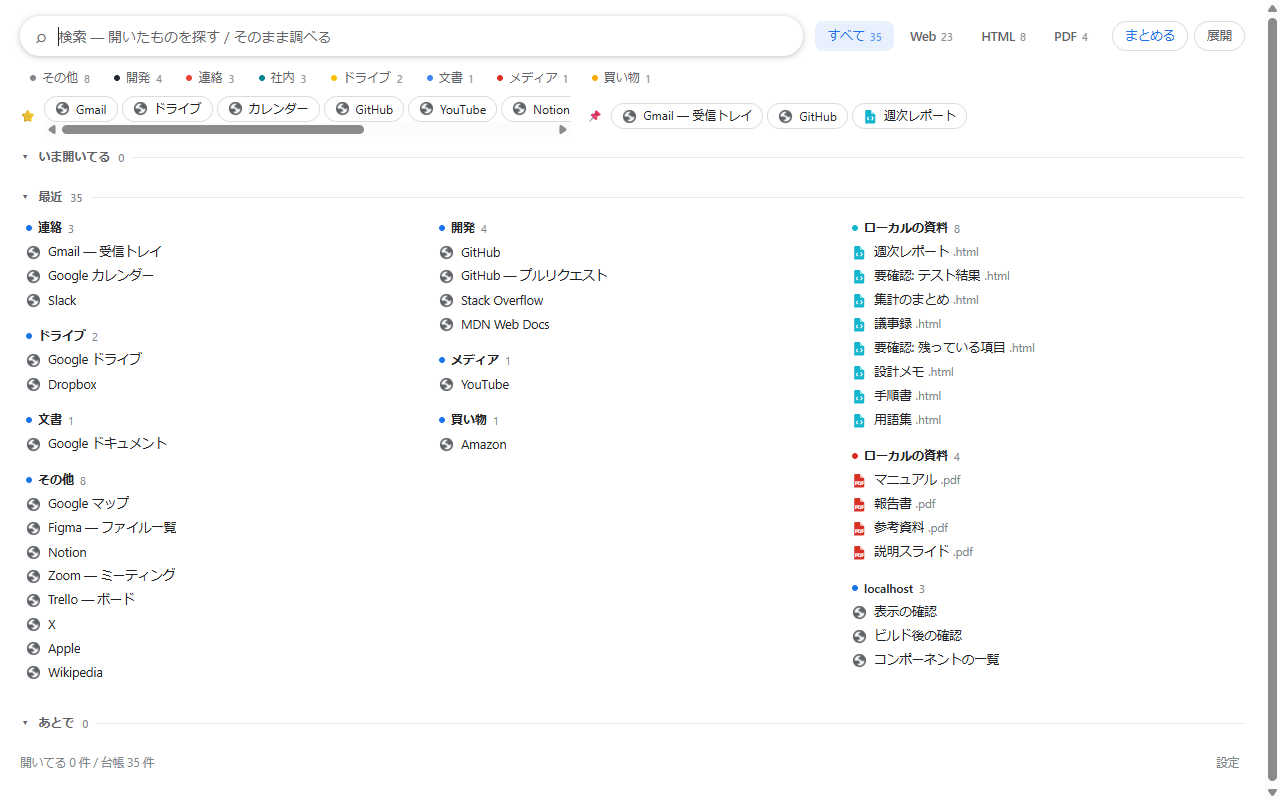
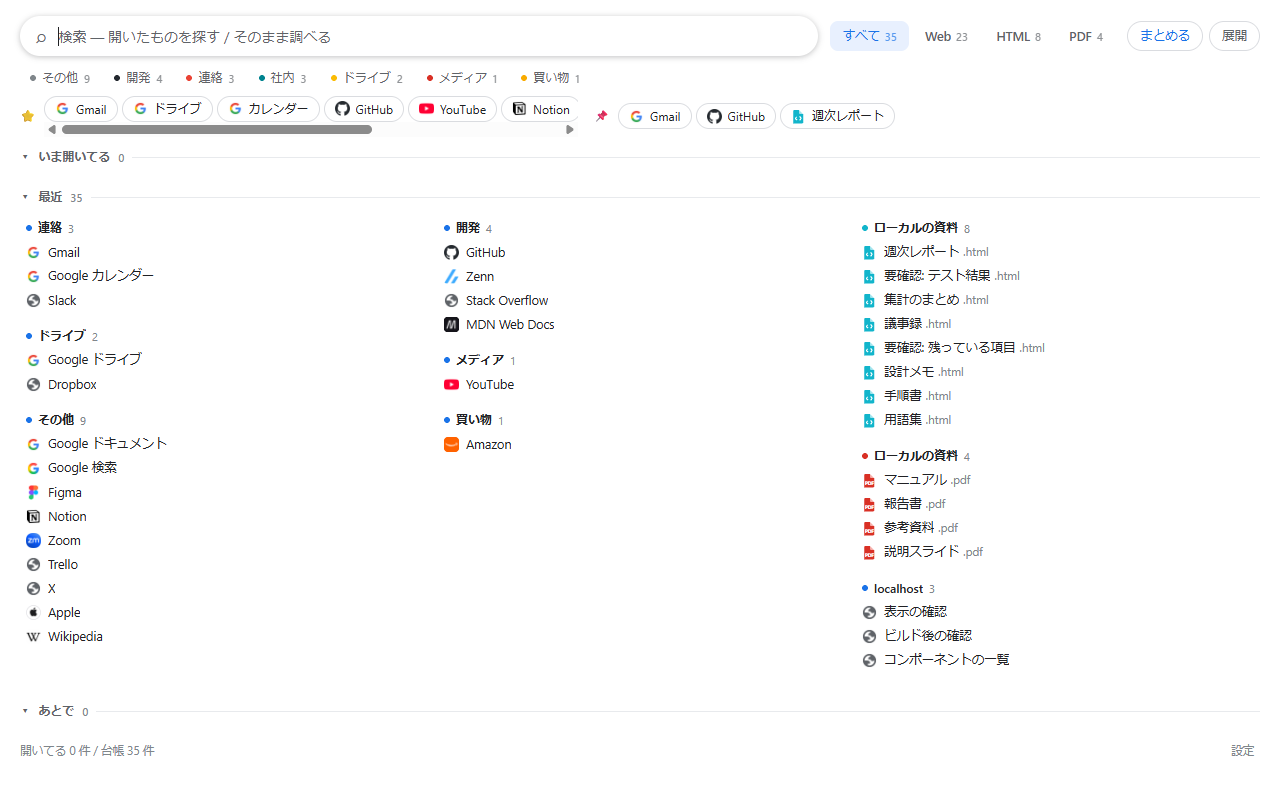
feat(store): shoot the store screenshots against well-known services
The fixtures were internal-sounding Japanese report names, which read as noise to
a reviewer who does not know the business. They are now services anyone
recognises — Gmail, Drive, Calendar, GitHub, Zenn, Stack Overflow, MDN, Figma,
Slack, Notion, Zoom, Dropbox, Trello, YouTube, X, Amazon, Apple, Wikipedia —
alongside the local HTML and PDF documents the extension actually exists for.
The bookmark bar is seeded too, so the new tab page is not missing the row of
shortcuts every real browser has.

Favicons now render. They come from Chrome's favicon database via /_favicon/,
which a throwaway profile starts empty, so every row fell back to a generic
glyph. The run visits each fixture URL first to populate it. Three details
mattered: the lookup is keyed on the exact page URL rather than the origin;
deep links redirect to sign-in pages and record the icon against the redirected
URL, so the fixtures use top-level URLs; and the icon is fetched asynchronously
after load, so the tab has to stay open for a moment.

That warm-up has to run BEFORE the storage seed. Visiting pages makes the
service worker record them, which overwrote the seeded index and left the
catalog short of the rows the captures wait for.

Chrome now runs headless. A visible window takes focus when Page.bringToFront
runs, and keystrokes typed by whoever is at the machine land in the hub's
autofocused search box — two captures went out filtered to a stray "t" and "a"
with no error to show for it.
[…]

diff --git a/src/dashboard/App.tsx b/src/dashboard/App.tsx
@@ -185,7 +185,7 @@ export default function App() {
   return (
     <div className={css.app}>
       <header className={css.header}>
-        <div className={css.brand}>Report Hub</div>
+        <div className={css.brand}>HTML Hub</div>
         <nav className={css.nav}>
           <button
             className={view === "library" ? css.navActive : ""}

diff --git a/src/dashboard/dashboard.html b/src/dashboard/dashboard.html
@@ -2,7 +2,7 @@
 <html lang="ja">
   <head>
     <meta charset="UTF-8" />
-    <title>Report Hub — ダッシュボード</title>
+    <title>HTML Hub — ダッシュボード</title>
     <meta name="viewport" content="width=device-width, initial-scale=1" />
     <style>
       html, body, #root { height: 100%; margin: 0; }
